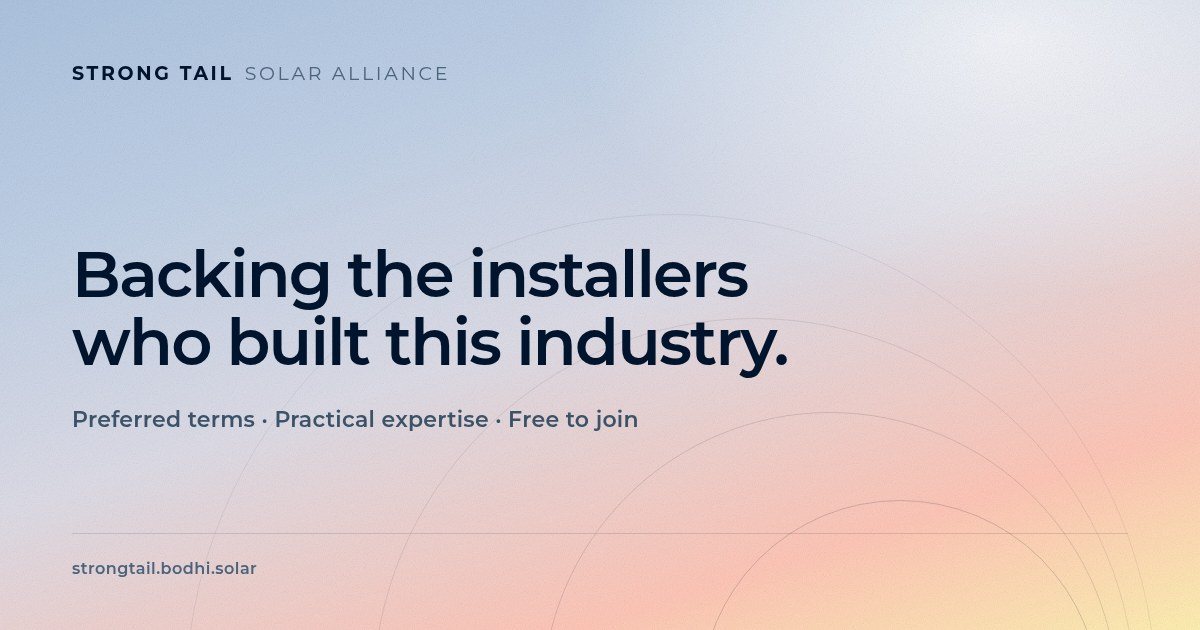
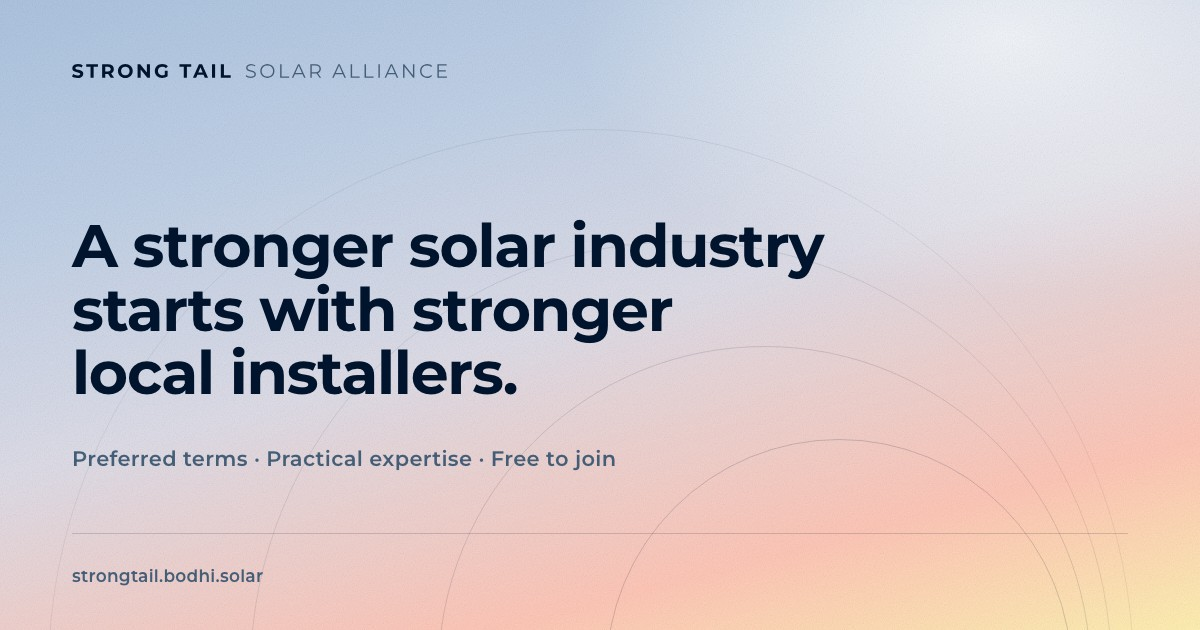
New headline, local and regional installers, one footer descriptor, and the October and November session changes

diff --git a/index.html b/index.html
@@ -4,8 +4,8 @@
 <meta charset="utf-8">
 <meta name="viewport" content="width=device-width, initial-scale=1">
 
-<title>Strong Tail Solar Alliance | Backing the installers who built this industry</title>
-<meta name="description" content="The Strong Tail Solar Alliance brings together companies across equipment, financing, technology, and services to help independent installers lower costs, strengthen their businesses, and compete for the long term.">
+<title>Strong Tail Solar Alliance | Preferred terms for local and regional installers</title>
+<meta name="description" content="The Strong Tail Solar Alliance brings together companies across equipment, financing, technology, and services to help local and regional installers lower costs, strengthen their businesses, and compete for the long term.">
 
 <!-- PRE-LAUNCH ONLY. DELETE THIS TAG ON WEDNESDAY 16 SEPTEMBER 2026.
      The page is reachable before launch for review and sharing, but the form is
@@ -26,7 +26,7 @@
 <meta property="og:image:type" content="image/jpeg">
 <meta property="og:image:width" content="1200">
 <meta property="og:image:height" content="630">
-<meta property="og:image:alt" content="Strong Tail Solar Alliance. Backing the installers who built this industry.">
+<meta property="og:image:alt" content="Strong Tail Solar Alliance. A stronger solar industry starts with stronger local installers.">
 <meta name="twitter:card" content="summary_large_image">
 <meta name="twitter:image" content="https://strongtail.bodhi.solar/assets/og-image.jpg">
 <meta name="twitter:title" content="Strong Tail Solar Alliance">
@@ -82,9 +82,9 @@
     <div class="orb r1" aria-hidden="true"></div><div class="orb r2" aria-hidden="true"></div><div class="orb r3" aria-hidden="true"></div><div class="orb r4" aria-hidden="true"></div>
     <div class="horizon" aria-hidden="true"></div><div class="grain" aria-hidden="true"></div>
     <div class="wrap"><div class="copy">
-      <h1 class="h1" id="hero-h">Backing the installers who built this industry.</h1>
+      <h1 class="h1" id="hero-h">A stronger solar industry starts with stronger local installers.</h1>
       <p class="lede">The Strong Tail Solar Alliance brings together companies across equipment,
-      financing, technology, and services to help independent installers lower costs, strengthen
+      financing, technology, and services to help local and regional installers lower costs, strengthen
       their businesses, and compete for the long term.</p>
       <a class="btn btn--lg" href="#join">Become an Alliance installer</a>
       <p class="micro">Preferred terms. Practical expertise. Free to join.</p>
@@ -186,37 +186,37 @@
       <div class="intro">
         <p class="eyebrow">Practical expertise</p>
         <h2 class="h2" id="edu-h">Learn what&rsquo;s working from companies across the industry.</h2>
-        <p class="lede">Alliance partners work with independent solar businesses every day. These
+        <p class="lede">Alliance partners work with local and regional solar businesses every day. These
         sessions share what we&rsquo;re seeing, what we&rsquo;re learning, and ideas you can use in your
         own business.</p>
       </div>
       <div class="grid grid--3">
         <article class="card card--edu">
           <div class="datebox"><span class="day">30</span><span class="mo">Sep 2026</span><span class="yr">1:00 PM ET</span></div>
-          <h3 class="h3">How to fill your funnel in a post-ITC world</h3>
-          <p class="with">With Scanifly and Damaris Solutions</p>
+          <h3 class="h3">How to fill your sales funnel post-ITC</h3>
+          <p class="with">With Damaris Solutions and Scanifly</p>
           <p class="take">Where demand is actually coming from now that the residential tax credit is
           gone, and how to work the pipeline you already have.</p>
           <div class="card-cta"><a class="btn btn--sm" href="#">Register</a></div>
         </article>
-        <!-- The second partner on this session is still open. The card is built
-             so a single name does not break the layout. -->
+        <!-- Second partner settled 8 Sept 2026: Krannich Solar, the natural fit once
+             this session became tariffs and supply chains. -->
         <article class="card card--edu">
-          <div class="datebox"><span class="day">21</span><span class="mo">Oct 2026</span><span class="yr">1:00 PM ET</span></div>
-          <h3 class="h3">Pricing power and domestic content for small installers</h3>
-          <p class="with">With JA Solar</p>
-          <p class="take">How smaller installers get access to pricing and domestic content programs
-          that used to require national volume.</p>
+          <div class="datebox"><span class="day">14</span><span class="mo">Oct 2026</span><span class="yr">1:00 PM ET</span></div>
+          <h3 class="h3">Navigating pricing power, tariffs, and supply chains</h3>
+          <p class="with">With JA Solar and Krannich Solar</p>
+          <p class="take">What tariffs and supply constraints are doing to equipment pricing, and how
+          smaller installers get terms that used to require national volume.</p>
           <div class="card-cta"><a class="btn btn--sm" href="#">Register</a></div>
         </article>
-        <!-- The second name on this session is not settled. Built to read
-             correctly with a single partner. Detail in COPY.md. -->
+        <!-- Climate First Bank carries this one alone. Working capital was added to
+             the title on 8 Sept 2026, which is squarely the bank's subject. -->
         <article class="card card--edu">
-          <div class="datebox"><span class="day">11</span><span class="mo">Nov 2026</span><span class="yr">1:00 PM ET</span></div>
-          <h3 class="h3">Managing project risk as a small installer</h3>
+          <div class="datebox"><span class="day">4</span><span class="mo">Nov 2026</span><span class="yr">1:00 PM ET</span></div>
+          <h3 class="h3">Managing project risk and working capital as a small installer</h3>
           <p class="with">With Climate First Bank</p>
-          <p class="take">Where the money and the reputation risk actually sit on a residential
-          project, and what to do about each.</p>
+          <p class="take">Where the money and the reputation risk actually sit on a residential project,
+          and how to keep cash moving between deposit and final payment.</p>
           <div class="card-cta"><a class="btn btn--sm" href="#">Register</a></div>
         </article>
       </div>
@@ -240,13 +240,13 @@
            "The Strong Tail Compact" now labels the five commitments below instead
            of appearing twice. This is the only section without an eyebrow. -->
       <div class="intro">
-        <h2 class="h2" id="pact-h">The industry calls independent installers the long tail. We see the
+        <h2 class="h2" id="pact-h">The industry calls local and regional installers the long tail. We see the
         backbone of a stronger solar industry.</h2>
-        <p class="lede">Independent installers keep solar competitive, serve their communities, and
+        <p class="lede">Local and regional installers keep solar competitive, serve their communities, and
         give homeowners more choice. But too often, they lack the pricing, access, and support
         available to larger players.</p>
         <p class="lede" style="margin-top:18px">Every Alliance partner signs the Strong Tail Compact,
-        a shared commitment to help independent installers build businesses that last.</p>
+        a shared commitment to help local and regional installers build businesses that last.</p>
       </div>
 
       <p class="pact-label">The Strong Tail Compact</p>
@@ -261,8 +261,8 @@
           <p class="claim">We honor our commitments after the sale.</p>
           <p class="sup">Our obligations don&rsquo;t disappear when the transaction is over.</p></div></div>
         <div class="row"><div class="num">4</div><div>
-          <p class="claim">We build for the independent installer.</p>
-          <p class="sup">Independent installers deserve the pricing, access, and support extended to
+          <p class="claim">We build for the local and regional installer.</p>
+          <p class="sup">Local and regional installers deserve the pricing, access, and support extended to
           the industry&rsquo;s largest accounts.</p></div></div>
         <div class="row"><div class="num">5</div><div>
           <p class="claim">We choose the durable business over the fast one.</p>
@@ -358,7 +358,7 @@
     <div class="wrap">
       <h2 class="h2" id="close-h">Build your business with more of the industry behind you.</h2>
       <p class="lede close-sub">Preferred terms, practical expertise, and partners committed to
-      independent installers.</p>
+      local and regional installers.</p>
       <a class="btn btn--lg" href="#join">Become an Alliance installer</a>
     </div>
   </section>
@@ -370,8 +370,7 @@
        what allows the header to be wordmark-only.                       -->
   <footer class="foot">
     <div class="wrap"><div class="row">
-      <p class="op"><b>The Strong Tail Solar Alliance is operated by OneEthos, a technology
-      subsidiary of Climate First Corp.</b><br>
+      <p class="op"><b>The Strong Tail Solar Alliance is operated by OneEthos, a Climate First Bank Corp subsidiary.</b><br>
       Alliance partner terms are set by each partner and may change. Nothing on this page is an
       offer of credit.</p>
       <nav class="links" aria-label="Footer">

diff --git a/partners/climate-first-bank/index.html b/partners/climate-first-bank/index.html
@@ -5,7 +5,7 @@
 <meta name="viewport" content="width=device-width, initial-scale=1">
 
 <title>Climate First Bank | Strong Tail Solar Alliance</title>
-<meta name="description" content="Solar loans up to 30.5 years. No dealer fees. A Strong Tail Solar Alliance partner offer for independent installers.">
+<meta name="description" content="Solar loans up to 30.5 years. No dealer fees. A Strong Tail Solar Alliance partner offer for local and regional installers.">
 
 <!-- PRE-LAUNCH ONLY. DELETE THIS TAG ON WEDNESDAY 16 SEPTEMBER 2026, at the
      same time as the one in index.html. The form is wired to HubSpot as of
@@ -26,7 +26,7 @@
 <meta property="og:image:type" content="image/jpeg">
 <meta property="og:image:width" content="1200">
 <meta property="og:image:height" content="630">
-<meta property="og:image:alt" content="Strong Tail Solar Alliance. Backing the installers who built this industry.">
+<meta property="og:image:alt" content="Strong Tail Solar Alliance. A stronger solar industry starts with stronger local installers.">
 <meta name="twitter:card" content="summary_large_image">
 <meta name="twitter:image" content="https://strongtail.bodhi.solar/assets/og-image.jpg">
 <meta name="twitter:title" content="Climate First Bank | Strong Tail Solar Alliance">
@@ -285,8 +285,7 @@
        there, change it here.                                            -->
   <footer class="foot">
     <div class="wrap"><div class="row">
-      <p class="op"><b>The Strong Tail Solar Alliance is operated by OneEthos, a technology
-      subsidiary of Climate First Corp.</b><br>
+      <p class="op"><b>The Strong Tail Solar Alliance is operated by OneEthos, a Climate First Bank Corp subsidiary.</b><br>
       Alliance partner terms are set by each partner and may change. Nothing on this page is an
       offer of credit.</p>
       <nav class="links" aria-label="Footer">

diff --git a/partners/krannich/index.html b/partners/krannich/index.html
@@ -5,7 +5,7 @@
 <meta name="viewport" content="width=device-width, initial-scale=1">
 
 <title>Krannich Solar | Strong Tail Solar Alliance</title>
-<meta name="description" content="Up to $0.15/W off your next residential job. A Strong Tail Solar Alliance partner offer for independent installers.">
+<meta name="description" content="Up to $0.15/W off your next residential job. A Strong Tail Solar Alliance partner offer for local and regional installers.">
 
 <!-- PRE-LAUNCH ONLY. DELETE THIS TAG ON WEDNESDAY 16 SEPTEMBER 2026, at the
      same time as the one in index.html. The form is wired to HubSpot as of
@@ -26,7 +26,7 @@
 <meta property="og:image:type" content="image/jpeg">
 <meta property="og:image:width" content="1200">
 <meta property="og:image:height" content="630">
-<meta property="og:image:alt" content="Strong Tail Solar Alliance. Backing the installers who built this industry.">
+<meta property="og:image:alt" content="Strong Tail Solar Alliance. A stronger solar industry starts with stronger local installers.">
 <meta name="twitter:card" content="summary_large_image">
 <meta name="twitter:image" content="https://strongtail.bodhi.solar/assets/og-image.jpg">
 <meta name="twitter:title" content="Krannich Solar | Strong Tail Solar Alliance">
@@ -284,8 +284,7 @@
        there, change it here.                                            -->
   <footer class="foot">
     <div class="wrap"><div class="row">
-      <p class="op"><b>The Strong Tail Solar Alliance is operated by OneEthos, a technology
-      subsidiary of Climate First Corp.</b><br>
+      <p class="op"><b>The Strong Tail Solar Alliance is operated by OneEthos, a Climate First Bank Corp subsidiary.</b><br>
       Alliance partner terms are set by each partner and may change. Nothing on this page is an
       offer of credit.</p>
       <nav class="links" aria-label="Footer">

diff --git a/partners/damaris-solutions/index.html b/partners/damaris-solutions/index.html
@@ -5,7 +5,7 @@
 <meta name="viewport" content="width=device-width, initial-scale=1">
 
 <title>Damaris Solutions | Strong Tail Solar Alliance</title>
-<meta name="description" content="20% off solar marketing services. A Strong Tail Solar Alliance partner offer for independent installers.">
+<meta name="description" content="20% off solar marketing services. A Strong Tail Solar Alliance partner offer for local and regional installers.">
 
 <!-- PRE-LAUNCH ONLY. DELETE THIS TAG ON WEDNESDAY 16 SEPTEMBER 2026, at the
      same time as the one in index.html. The form is wired to HubSpot as of
@@ -26,7 +26,7 @@
 <meta property="og:image:type" content="image/jpeg">
 <meta property="og:image:width" content="1200">
 <meta property="og:image:height" content="630">
-<meta property="og:image:alt" content="Strong Tail Solar Alliance. Backing the installers who built this industry.">
+<meta property="og:image:alt" content="Strong Tail Solar Alliance. A stronger solar industry starts with stronger local installers.">
 <meta name="twitter:card" content="summary_large_image">
 <meta name="twitter:image" content="https://strongtail.bodhi.solar/assets/og-image.jpg">
 <meta name="twitter:title" content="Damaris Solutions | Strong Tail Solar Alliance">
@@ -279,8 +279,7 @@
        there, change it here.                                            -->
   <footer class="foot">
     <div class="wrap"><div class="row">
-      <p class="op"><b>The Strong Tail Solar Alliance is operated by OneEthos, a technology
-      subsidiary of Climate First Corp.</b><br>
+      <p class="op"><b>The Strong Tail Solar Alliance is operated by OneEthos, a Climate First Bank Corp subsidiary.</b><br>
       Alliance partner terms are set by each partner and may change. Nothing on this page is an
       offer of credit.</p>
       <nav class="links" aria-label="Footer">

diff --git a/partners/bodhi/index.html b/partners/bodhi/index.html
@@ -5,7 +5,7 @@
 <meta name="viewport" content="width=device-width, initial-scale=1">
 
 <title>Bodhi | Strong Tail Solar Alliance</title>
-<meta name="description" content="Customer experience software at no cost. A Strong Tail Solar Alliance partner offer for independent installers.">
+<meta name="description" content="Customer experience software at no cost. A Strong Tail Solar Alliance partner offer for local and regional installers.">
 
 <!-- PRE-LAUNCH ONLY. DELETE THIS TAG ON WEDNESDAY 16 SEPTEMBER 2026, at the
      same time as the one in index.html. The form is wired to HubSpot as of
@@ -26,7 +26,7 @@
 <meta property="og:image:type" content="image/jpeg">
 <meta property="og:image:width" content="1200">
 <meta property="og:image:height" content="630">
-<meta property="og:image:alt" content="Strong Tail Solar Alliance. Backing the installers who built this industry.">
+<meta property="og:image:alt" content="Strong Tail Solar Alliance. A stronger solar industry starts with stronger local installers.">
 <meta name="twitter:card" content="summary_large_image">
 <meta name="twitter:image" content="https://strongtail.bodhi.solar/assets/og-image.jpg">
 <meta name="twitter:title" content="Bodhi | Strong Tail Solar Alliance">
@@ -279,8 +279,7 @@
        there, change it here.                                            -->
   <footer class="foot">
     <div class="wrap"><div class="row">
-      <p class="op"><b>The Strong Tail Solar Alliance is operated by OneEthos, a technology
-      subsidiary of Climate First Corp.</b><br>
+      <p class="op"><b>The Strong Tail Solar Alliance is operated by OneEthos, a Climate First Bank Corp subsidiary.</b><br>
       Alliance partner terms are set by each partner and may change. Nothing on this page is an
       offer of credit.</p>
       <nav class="links" aria-label="Footer">

diff --git a/partners/ja-solar/index.html b/partners/ja-solar/index.html
@@ -5,7 +5,7 @@
 <meta name="viewport" content="width=device-width, initial-scale=1">
 
 <title>JA Solar | Strong Tail Solar Alliance</title>
-<meta name="description" content="Save up to 10% on JA Solar modules. A Strong Tail Solar Alliance partner offer for independent installers.">
+<meta name="description" content="Save up to 10% on JA Solar modules. A Strong Tail Solar Alliance partner offer for local and regional installers.">
 
 <!-- PRE-LAUNCH ONLY. DELETE THIS TAG ON WEDNESDAY 16 SEPTEMBER 2026, at the
      same time as the one in index.html. The form is wired to HubSpot as of
@@ -26,7 +26,7 @@
 <meta property="og:image:type" content="image/jpeg">
 <meta property="og:image:width" content="1200">
 <meta property="og:image:height" content="630">
-<meta property="og:image:alt" content="Strong Tail Solar Alliance. Backing the installers who built this industry.">
+<meta property="og:image:alt" content="Strong Tail Solar Alliance. A stronger solar industry starts with stronger local installers.">
 <meta name="twitter:card" content="summary_large_image">
 <meta name="twitter:image" content="https://strongtail.bodhi.solar/assets/og-image.jpg">
 <meta name="twitter:title" content="JA Solar | Strong Tail Solar Alliance">
@@ -290,8 +290,7 @@
        there, change it here.                                            -->
   <footer class="foot">
     <div class="wrap"><div class="row">
-      <p class="op"><b>The Strong Tail Solar Alliance is operated by OneEthos, a technology
-      subsidiary of Climate First Corp.</b><br>
+      <p class="op"><b>The Strong Tail Solar Alliance is operated by OneEthos, a Climate First Bank Corp subsidiary.</b><br>
       Alliance partner terms are set by each partner and may change. Nothing on this page is an
       offer of credit.</p>
       <nav class="links" aria-label="Footer">

diff --git a/partners/scanifly/index.html b/partners/scanifly/index.html
@@ -5,7 +5,7 @@
 <meta name="viewport" content="width=device-width, initial-scale=1">
 
 <title>Scanifly | Strong Tail Solar Alliance</title>
-<meta name="description" content="20% off + your first drone free. A Strong Tail Solar Alliance partner offer for independent installers.">
+<meta name="description" content="20% off + your first drone free. A Strong Tail Solar Alliance partner offer for local and regional installers.">
 
 <!-- PRE-LAUNCH ONLY. DELETE THIS TAG ON WEDNESDAY 16 SEPTEMBER 2026, at the
      same time as the one in index.html. The form is wired to HubSpot as of
@@ -26,7 +26,7 @@
 <meta property="og:image:type" content="image/jpeg">
 <meta property="og:image:width" content="1200">
 <meta property="og:image:height" content="630">
-<meta property="og:image:alt" content="Strong Tail Solar Alliance. Backing the installers who built this industry.">
+<meta property="og:image:alt" content="Strong Tail Solar Alliance. A stronger solar industry starts with stronger local installers.">
 <meta name="twitter:card" content="summary_large_image">
 <meta name="twitter:image" content="https://strongtail.bodhi.solar/assets/og-image.jpg">
 <meta name="twitter:title" content="Scanifly | Strong Tail Solar Alliance">
@@ -244,8 +244,7 @@
        there, change it here.                                            -->
   <footer class="foot">
     <div class="wrap"><div class="row">
-      <p class="op"><b>The Strong Tail Solar Alliance is operated by OneEthos, a technology
-      subsidiary of Climate First Corp.</b><br>
+      <p class="op"><b>The Strong Tail Solar Alliance is operated by OneEthos, a Climate First Bank Corp subsidiary.</b><br>
       Alliance partner terms are set by each partner and may change. Nothing on this page is an
       offer of credit.</p>
       <nav class="links" aria-label="Footer">

diff --git a/kit/index.html b/kit/index.html
@@ -368,9 +368,9 @@
 
       <div class="kit-rules">
         <ul class="kit-do">
-          <li>You are an <b>Alliance partner</b>. An <b>Alliance installer</b> is an independent installer approved to offer Climate First Bank loans through OneEthos. The two are not interchangeable, and neither one is a member.</li>
+          <li>You are an <b>Alliance partner</b>. An <b>Alliance installer</b> is a local or regional installer approved to offer Climate First Bank loans through OneEthos. The two are not interchangeable, and neither one is a member.</li>
           <li>All six of you were in at the start, so <b>founding Alliance partner</b> is accurate. The badge above says exactly that.</li>
-          <li>The Strong Tail Solar Alliance is operated by OneEthos, a technology subsidiary of Climate First Corp. Include that wherever you describe what the Alliance is.</li>
+          <li>The Strong Tail Solar Alliance is operated by OneEthos, a Climate First Bank Corp subsidiary. Include that wherever you describe what the Alliance is.</li>
           <li>Link to <a class="tlink" href="https://strongtail.bodhi.solar">strongtail.bodhi.solar</a>, or to your own partner page under <span class="mono">/partners/</span>.</li>
         </ul>
         <ul class="kit-dont">
@@ -401,8 +401,7 @@
 
   <footer class="foot">
     <div class="wrap"><div class="row">
-      <p class="op"><b>The Strong Tail Solar Alliance is operated by OneEthos, a technology
-      subsidiary of Climate First Corp.</b><br>
+      <p class="op"><b>The Strong Tail Solar Alliance is operated by OneEthos, a Climate First Bank Corp subsidiary.</b><br>
       Alliance partner terms are set by each partner and may change. Nothing on this page is an
       offer of credit.</p>
       <nav class="links" aria-label="Footer">

diff --git a/installer-check/index.html b/installer-check/index.html
@@ -230,8 +230,7 @@
 
   <footer class="foot">
     <div class="wrap"><div class="row">
-      <p class="op"><b>The Strong Tail Solar Alliance is operated by OneEthos, a technology
-      subsidiary of Climate First Corp.</b><br>
+      <p class="op"><b>The Strong Tail Solar Alliance is operated by OneEthos, a Climate First Bank Corp subsidiary.</b><br>
       Alliance partner terms are set by each partner and may change. Nothing on this page is an
       offer of credit.</p>
       <nav class="links" aria-label="Footer">

diff --git a/thanks/index.html b/thanks/index.html
@@ -133,8 +133,7 @@
 
   <footer class="foot">
     <div class="wrap"><div class="row">
-      <p class="op"><b>The Strong Tail Solar Alliance is operated by OneEthos, a technology
-      subsidiary of Climate First Corp.</b><br>
+      <p class="op"><b>The Strong Tail Solar Alliance is operated by OneEthos, a Climate First Bank Corp subsidiary.</b><br>
       Alliance partner terms are set by each partner and may change. Nothing on this page is an
       offer of credit.</p>
       <nav class="links" aria-label="Footer">
